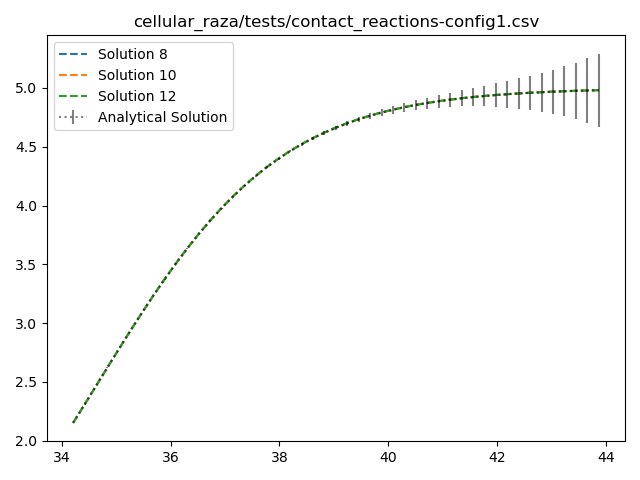
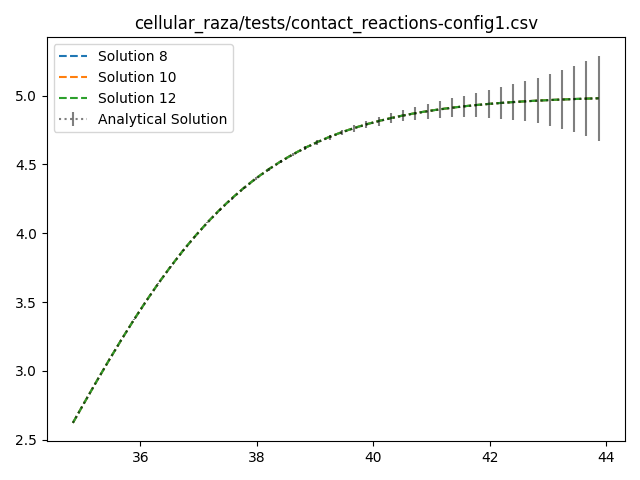
adjust plots and description to new testing scheme
- add more explanations for new starting point of comparison
- fix some remaining value naming mismatches

diff --git a/content/benchmarks/2024-07-testing-contact-reactions.md b/content/benchmarks/2024-07-testing-contact-reactions.md
@@ -235,14 +235,16 @@ With this upper bound on the local truncation error we can construct a new funct
 that this upper bound is fulfilled.
 We begin by writing down a general formula for the nth drivative of the exact solution to the
 logistic curve ODE problem as given above.
+Notice that we deliberately use arguments for initial values and formulate the solution for the
+most general case.
 
 ```rust {filename="contact_reactions.rs", linenos=table, linenostart=299}
 fn compare_results(
     production: f64,
-    y0: [f64; 2],
+    y0_first: [f64; 2],
     upper_limit: f64,
     n_agents: usize,
-    t0: f64,
+    t0_first: f64,
     dt: f64,
     save_interval: usize,
     t_max: f64,
@@ -250,19 +252,21 @@ fn compare_results(
 ) -> Result<(), SimulationError> {
     // Define exact solution
     let q = (upper_limit - y0[1]) / y0[1];
-    let exact_solution_derivative = |t: f64, n_deriv: i32| -> nalgebra::Vector2<f64> {
-        let linear_growth = if n_deriv == 0 {
-            y0[0] + (n_agents - 1) as f64 * production * (t - t0)
-        } else {
-            0.0
+    let exact_solution_derivative =
+        |t: f64, y0: [f64; 2], t0: f64, n_deriv: i32| -> nalgebra::Vector2<f64> {
+            let q = (upper_limit - y0[1]) / y0[1];
+            let linear_growth = if n_deriv == 0 {
+                y0[0] + (n_agents - 1) as f64 * production * (t - t0)
+            } else {
+                0.0
+            };
+            let logistic_curve = (1..n_deriv).product::<i32>() as f64
+                * upper_limit
+                * q.powi(n_deriv)
+                * (1.0 + q * (-production * (n_agents - 1) as f64 * (t - t0)).exp())
+                    .powi(-(n_deriv + 1));
+            nalgebra::Vector2::from([linear_growth, logistic_curve])
         };
-        let logistic_curve = (1..n_deriv).product::<i32>() as f64
-            * upper_limit
-            * q.powi(n_deriv)
-            * (1.0 + q * (-production * (n_agents - 1) as f64 * (t - t0)).exp())
-                .powi(-(n_deriv + 1));
-        nalgebra::Vector2::from([linear_growth, logistic_curve])
-    };
 
     // ...
 ```
@@ -289,7 +293,7 @@ $$\begin{align}
     L_1         &= \text{max}\left(1-\frac{2y_0}{y_\text{max}},1-\frac{2y(t_\text{max})}{y_\text{max}}\right)
 \end{align}$$
 
-```rust {filename="contact_reactions.rs", linenos=table, linenostart=324}
+```rust {filename="contact_reactions.rs", linenos=table, linenostart=325}
     // ...
 
     // Estimate upper bound on local and global truncation error
@@ -297,26 +301,28 @@ $$\begin{align}
         (n_agents - 1) as f64 * production,
         (n_agents - 1) as f64
             * production
-            * (upper_limit - 2.0 * y0[1])
-                .abs()
-                .max((upper_limit - 2.0 * exact_solution_derivative(t_max, 0)[1]).abs())
+            * (upper_limit - 2.0 * y0_first[1]).abs().max(
+                (upper_limit
+                    - 2.0 * exact_solution_derivative(t_max, y0_first, t0_first, 0)[1])
+                    .abs()
+            )
             / upper_limit
     ];
-    let fourth_derivative_bound = exact_solution_derivative(t_max, 4)[1];
+    let fourth_derivative_bound = exact_solution_derivative(t_max, y0_first, t0_first, 4)[1];
 
     // Calculate upper bound on local and global truncation error
     let local_truncation_error = nalgebra::vector![
         n_agents as f64
-            * (y0[0] + (n_agents - 1) as f64 * production * (t_max - t0))
+            * (y0_first[0] + (n_agents - 1) as f64 * production * (t_max - t0_first))
             * f64::EPSILON,
         fourth_derivative_bound * (3f64 / 8.0 * dt.powi(4))
     ];
     let global_truncation_error = |t: f64| -> nalgebra::Vector2<f64> {
         let res = nalgebra::Vector2::from([
-            ((lipschitz_constant[0] * (t - t0)).exp() - 1.0) * local_truncation_error[0]
+            ((lipschitz_constant[0] * (t - t0_first)).exp() - 1.0) * local_truncation_error[0]
                 / dt
                 / lipschitz_constant[0],
-            ((lipschitz_constant[1] * (t - t0)).exp() - 1.0) * local_truncation_error[1]
+            ((lipschitz_constant[1] * (t - t0_first)).exp() - 1.0) * local_truncation_error[1]
                 / dt
                 / lipschitz_constant[1],
         ]);
@@ -328,17 +334,21 @@ $$\begin{align}
 In the final step, we use the already defined function `` to generate results from `cellular_raza`
 and compare them with the exact known results.
 Their difference has to be within the margin of the calculated global truncation error $e$.
+Note that we only start comparing after the first 3 initial steps which are performed by solvers
+of lower orders (Euler and Adams-Bashforth 2nd) due to insufficient information about increments
+of previous integration steps.
+Afterwards, we use the numerically calculated value at $t=t_0 + 2\Delta t$ as the new initial value.
 
-```rust {filename="contact_reactions.rs", linenos=table, linenostart=355}
+```rust {filename="contact_reactions.rs", linenos=table, linenostart=358}
     // ...
 
     // Obtain solutions from cellular_raza
     let solutions_cr = run_cellular_raza(
         production,
-        y0,
+        y0_first,
         upper_limit,
         n_agents,
-        t0,
+        t0_first,
         dt,
         save_interval,
         t_max,
@@ -346,17 +356,24 @@ Their difference has to be within the margin of the calculated global truncation
 
     // Compare the results
     let mut results = vec![];
-    for (t, res_cr) in solutions_cr {
-        let res_ex = exact_solution_derivative(t, 0);
-        let e_global = global_truncation_error(t);
-        let e_local = local_truncation_error(t);
-        for r in res_cr.iter() {
-            let d0 = (r[0] - res_ex[0]).abs();
-            let d1 = (r[1] - res_ex[1]).abs();
-            assert!(d0 < e_global[0]);
-            assert!(d1 < e_global[1]);
+    let mut t0 = t0_first;
+    let mut y0 = y0_first;
+    for (n_run, (t, res_cr)) in solutions_cr.into_iter().enumerate() {
+        if n_run < 3 {
+            t0 = t;
+            y0 = res_cr[0];
+        } else {
+            let res_ex = exact_solution_derivative(t, y0, t0, 0);
+            let e_global = global_truncation_error(t);
+            let e_local = local_truncation_error;
+            for r in res_cr.iter() {
+                let d0 = (r[0] - res_ex[0]).abs();
+                let d1 = (r[1] - res_ex[1]).abs();
+                assert!(d0 < e_global[0]);
+                assert!(d1 < e_global[1]);
+            }
+            results.push((t, res_ex, e_global, e_local, res_cr));
         }
-        results.push((t, res_ex, e_global, e_local, res_cr));
     }
 
     #[cfg(not(debug_assertions))]
@@ -369,7 +386,7 @@ Their difference has to be within the margin of the calculated global truncation
 In the last step, we also added a function `save_results` which exports all generated results to a
 `.csv` file which.
 
-```rust {filename="contact_reactions.rs", linenos=table, linenostart=390}
+```rust {filename="contact_reactions.rs", linenos=table, linenostart=400}
 #[allow(unused)]
 fn save_results(
     results: Vec<(
@@ -402,7 +419,7 @@ fn save_results(
 Equipped with this function `compare_results`, we can now use it for a collection of configurations
 to test the solver.
 
-```rust {filename="contact_reactions.rs", linenos=table, linenostart=418}
+```rust {filename="contact_reactions.rs", linenos=table, linenostart=428}
 #[test]
 fn test_config0() {
     // Simulation parameters
@@ -410,9 +427,9 @@ fn test_config0() {
     let y0 = [1.0, 2.0];
     let upper_limit = 12.0;
     let t0 = 3.0;
-    let dt = 0.21;
-    let save_interval = 2;
-    let t_max = 20.000001;
+    let dt = 0.01;
+    let save_interval = 50;
+    let t_max = 20.0;
     let n_agents = 2;
     compare_results(
         production,
